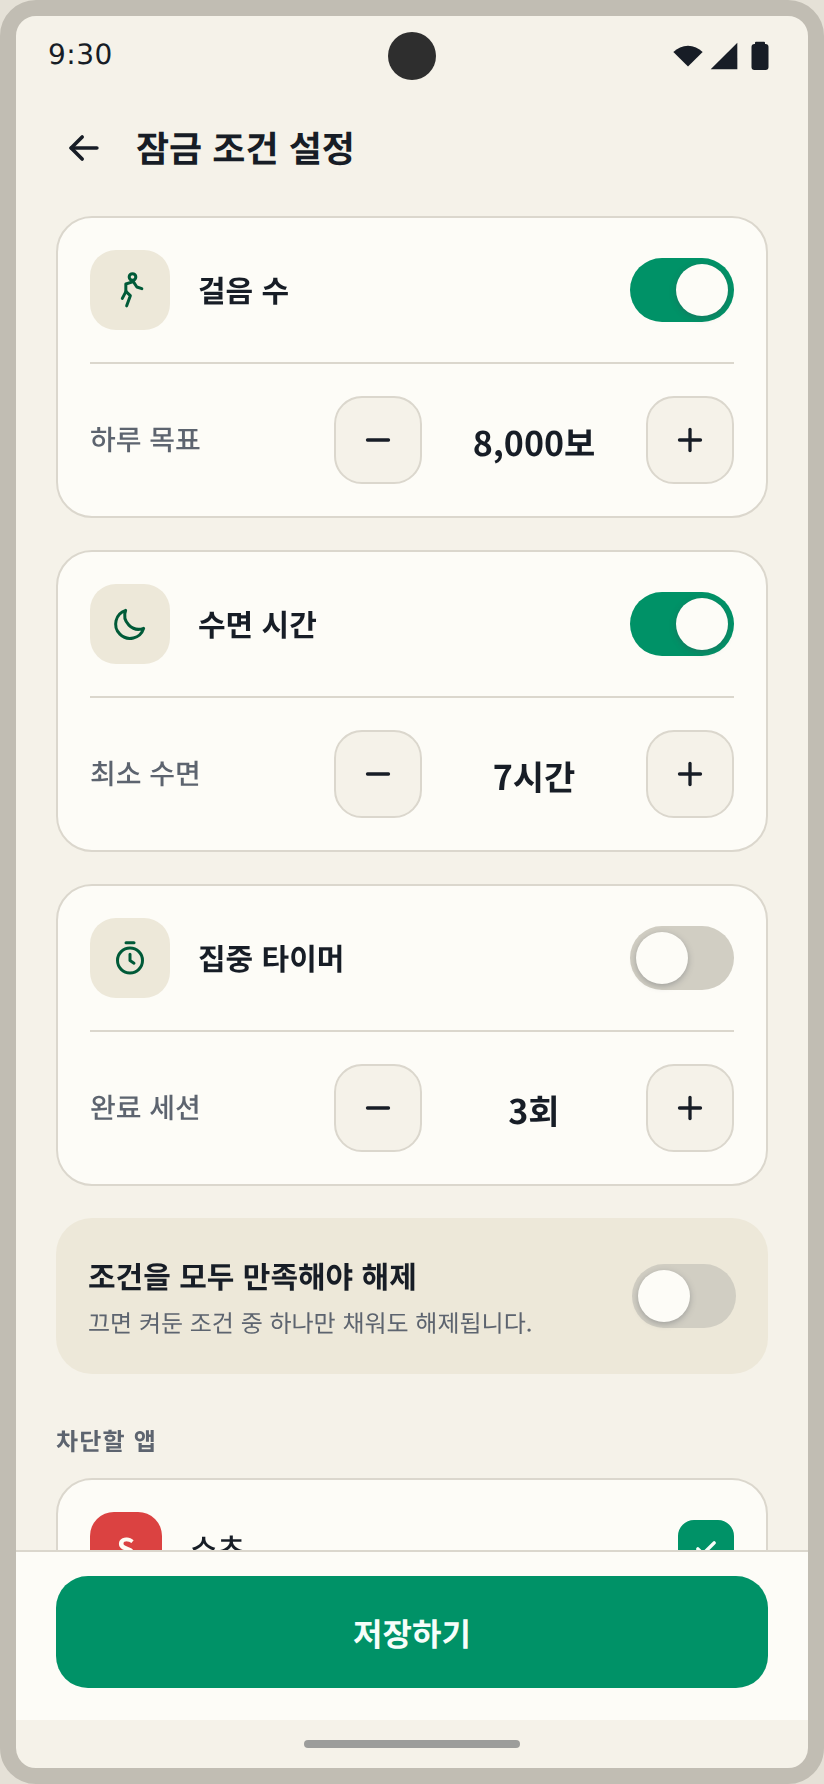
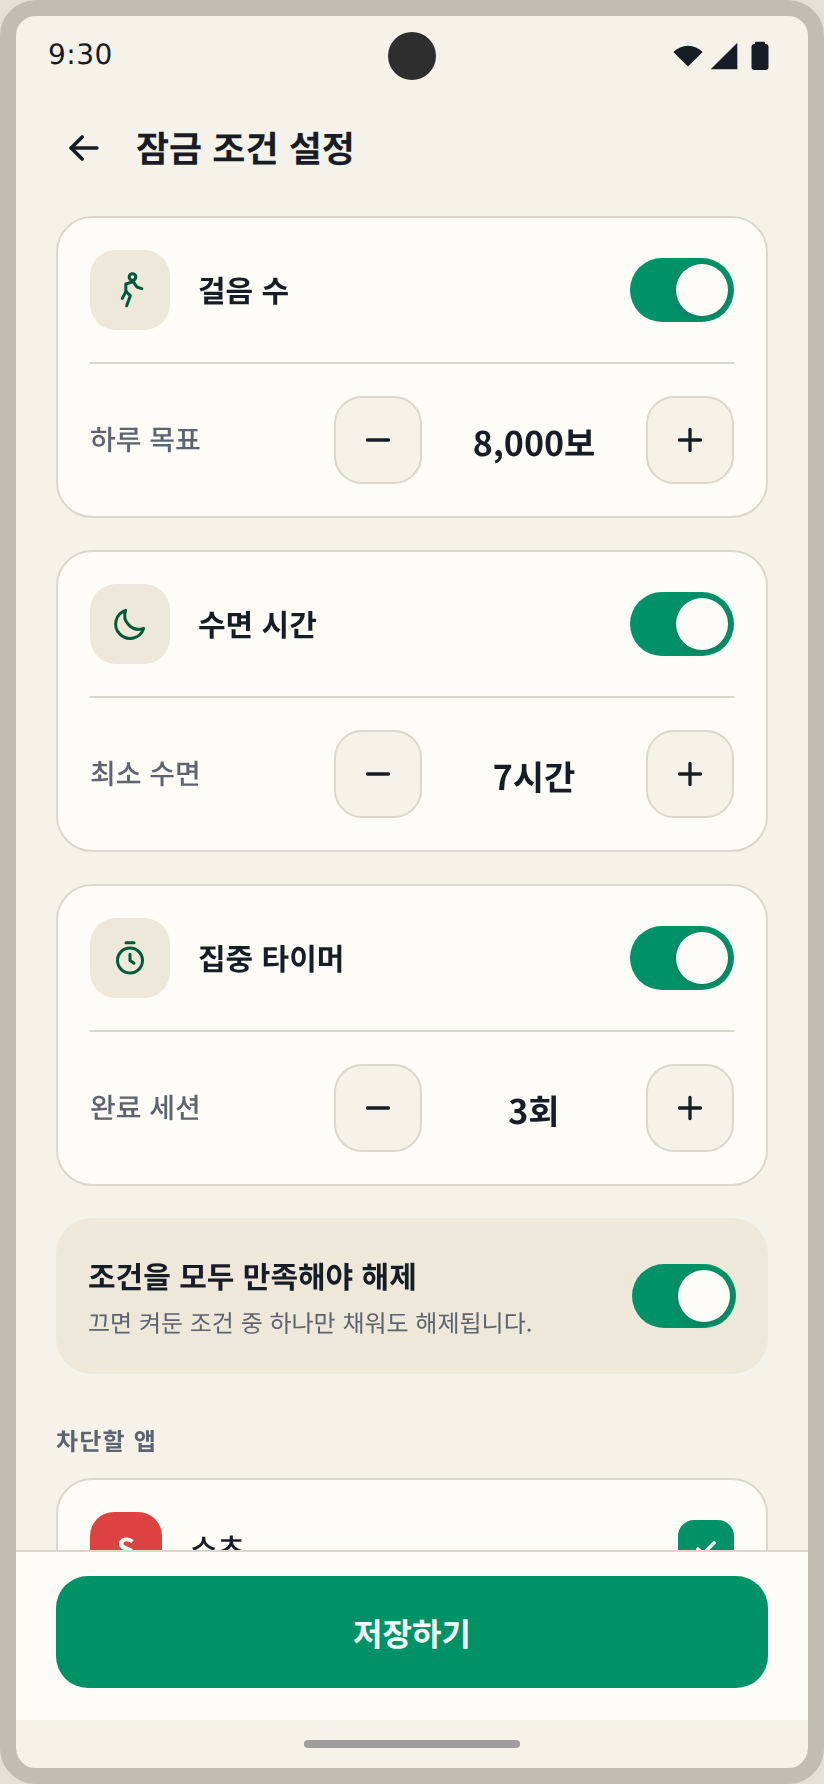
프리뷰 데이터 정합성 — 홈과 잠금 화면이 같은 결론을 내게
샘플 데이터가 "수면 달성 + 하나만 만족" 이어서 홈은 열려 있다고,
잠금 화면 스크린샷은 잠겨 있다고 말했습니다. 같은 데이터에서 나온
두 화면이 서로 모순이었습니다.

전부 만족 모드를 켜서 걸음(진행 중)이 결론을 정하게 했습니다.
덕분에 조건 링의 두 상태(퍼센트·체크)가 한 화면에 같이 보입니다.

홈 화면 이미지를 새 구조로 다시 렌더했습니다.

Claude-Session: https://claude.ai/code/session_01TfDVSB28YoT3k36WsBEoLF

Changed region(s): [[0.7585, 0.7091, 0.9102, 0.7707], [0.7585, 0.4933, 0.9102, 0.5549]]

diff --git a/app/src/main/java/com/steplock/app/data/SampleData.kt b/app/src/main/java/com/steplock/app/data/SampleData.kt
@@ -12,8 +12,12 @@ object SampleData {
         deviceUuid = PREVIEW_UUID,
         displayName = "지우",
         // 프리뷰는 세 조건을 모두 켠 사용자를 기준으로 합니다.
+        // 전부 만족 모드까지 켜 둔 이유: 걸음(진행 중)과 수면(달성)이 한 화면에
+        // 같이 보여서 조건 링의 두 상태를 모두 확인할 수 있고, 홈과 잠금 화면이
+        // 같은 데이터에서 같은 결론(아직 잠김)을 내놓습니다.
         sleepEnabled = true,
         pomodoroEnabled = true,
+        requireAllConditions = true,
         blockedAppIds = setOf("shorts", "reels", "tiktok"),
     )
 
